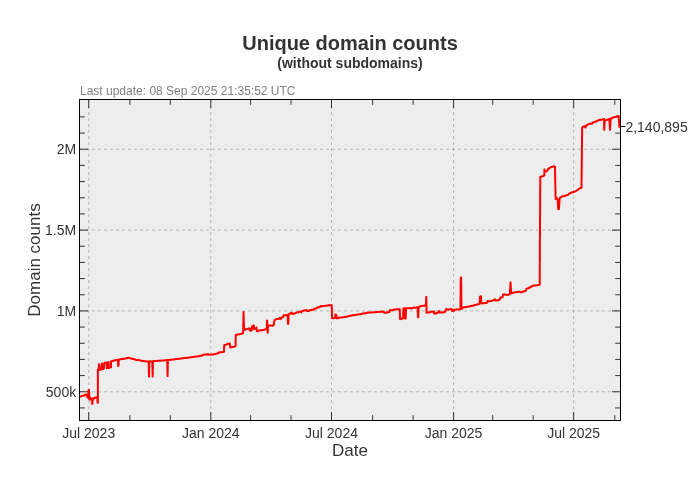
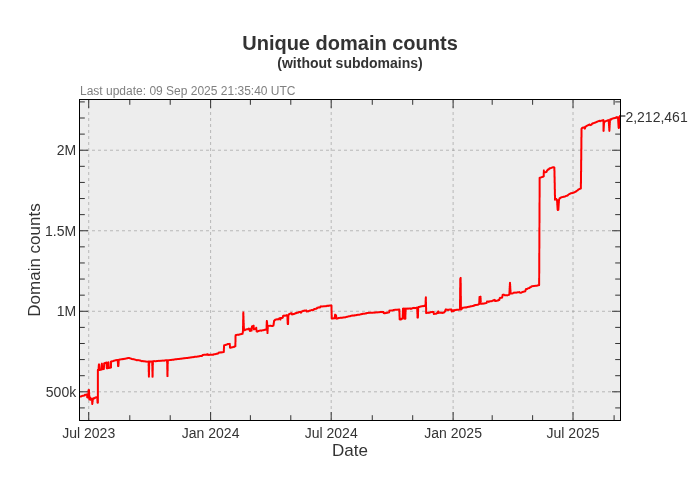
Update pages

diff --git a/README.md b/README.md
@@ -3,22 +3,22 @@ A blocklist file for blocking ads, trackers and malware domains.
 
[1 lines of base64/hex data omitted]
 
-- Unique domains: 2,817,124
-- Without subdomains: 2,140,895
-- Last update: 08 Sep 2025 21:35:52 UTC
-- Version: 2025.09.08.01
+- Unique domains: 2,898,052
+- Without subdomains: 2,212,461
+- Last update: 09 Sep 2025 21:35:40 UTC
+- Version: 2025.09.09.01
 
 
 ### Downloads:
 
 | Format             | Domain count      | Download Link |
 |:------------------ | -----------------:|:-------------:|
-| *Adblock Plus*     | 2,140,895 | [Download](https://dl.cenk.app/bad-hosts/bad-hosts-abp) |
-| *Wildcard domains* | 2,140,895 | [Download](https://dl.cenk.app/bad-hosts/bad-hosts-wildcard) |
-| *dnsmasq*          | 2,140,895 | [Download](https://dl.cenk.app/bad-hosts/bad-hosts-dnsmasq) |
-| *hosts*            | 2,817,124 | [Download](https://dl.cenk.app/bad-hosts/hosts) |
-| *hosts (ipv6)*     | 2,817,124 | [Download](https://dl.cenk.app/bad-hosts/hosts-ipv6) |
-| *Plain domains*    | 2,817,124 | [Download](https://dl.cenk.app/bad-hosts/bad-hosts-domains) |
+| *Adblock Plus*     | 2,212,461 | [Download](https://dl.cenk.app/bad-hosts/bad-hosts-abp) |
+| *Wildcard domains* | 2,212,461 | [Download](https://dl.cenk.app/bad-hosts/bad-hosts-wildcard) |
+| *dnsmasq*          | 2,212,461 | [Download](https://dl.cenk.app/bad-hosts/bad-hosts-dnsmasq) |
+| *hosts*            | 2,898,052 | [Download](https://dl.cenk.app/bad-hosts/hosts) |
+| *hosts (ipv6)*     | 2,898,052 | [Download](https://dl.cenk.app/bad-hosts/hosts-ipv6) |
+| *Plain domains*    | 2,898,052 | [Download](https://dl.cenk.app/bad-hosts/bad-hosts-domains) |
 
 ### Domain count history
 #### With subdomains
